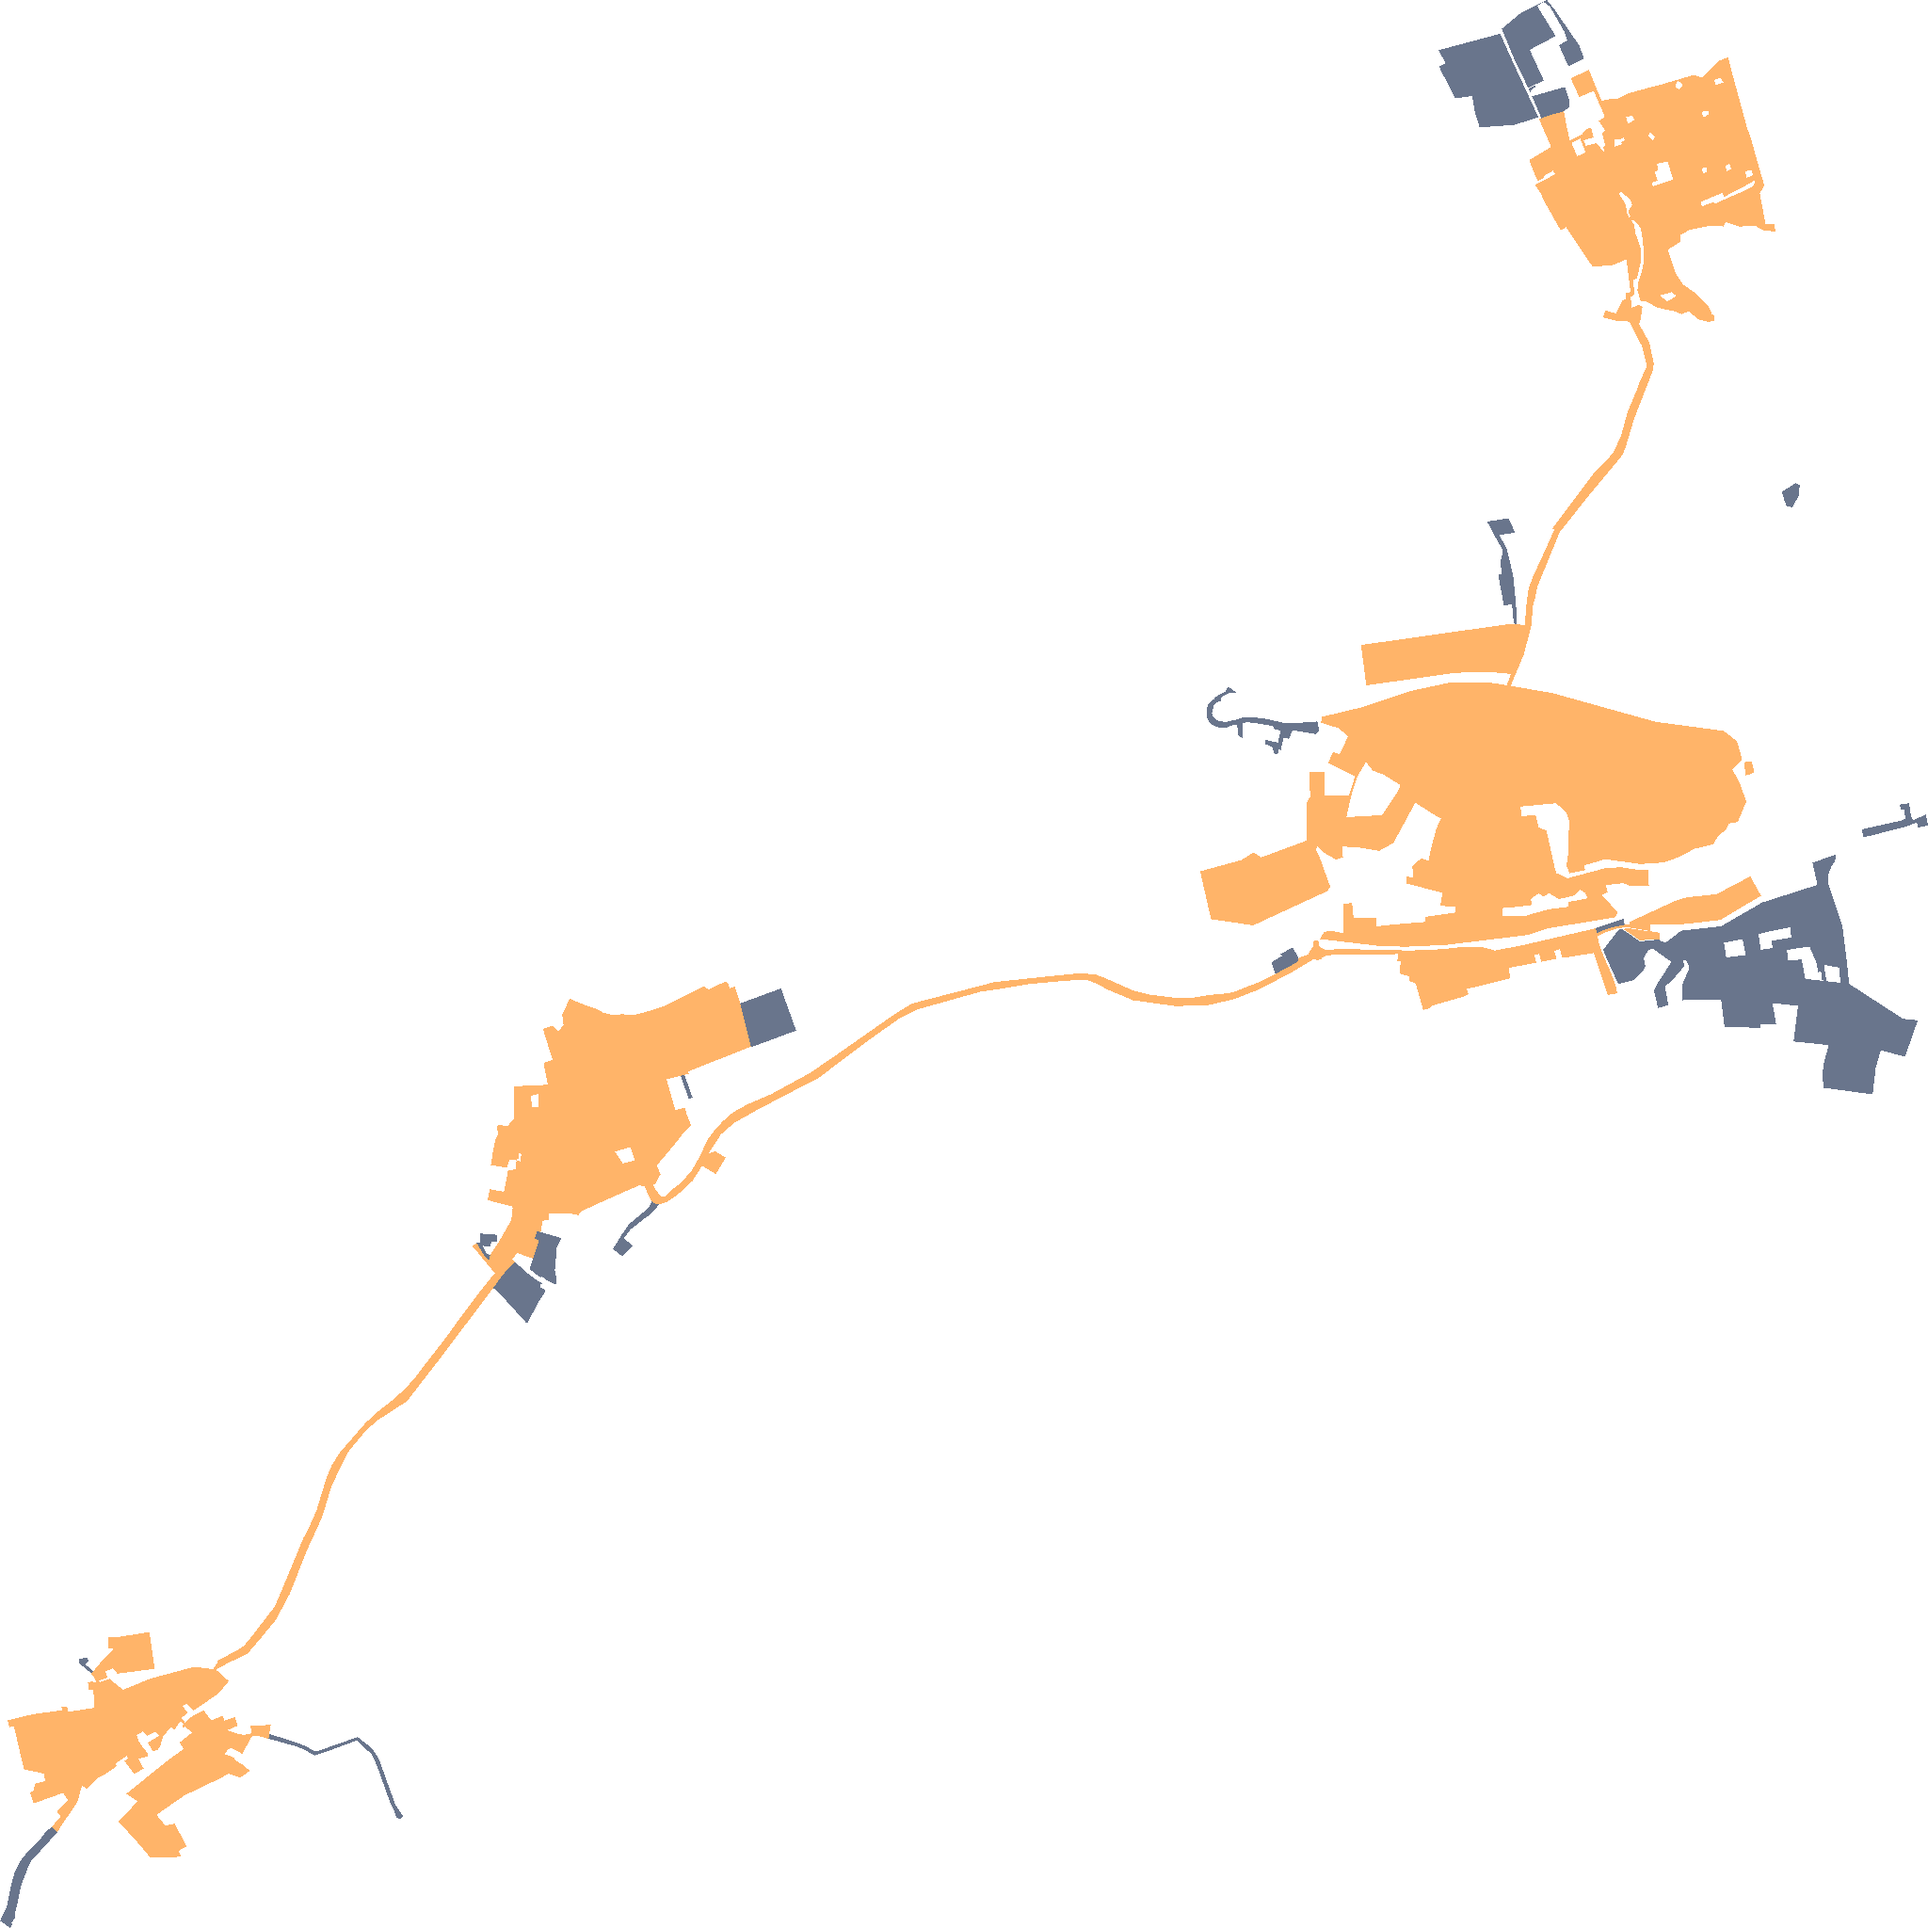
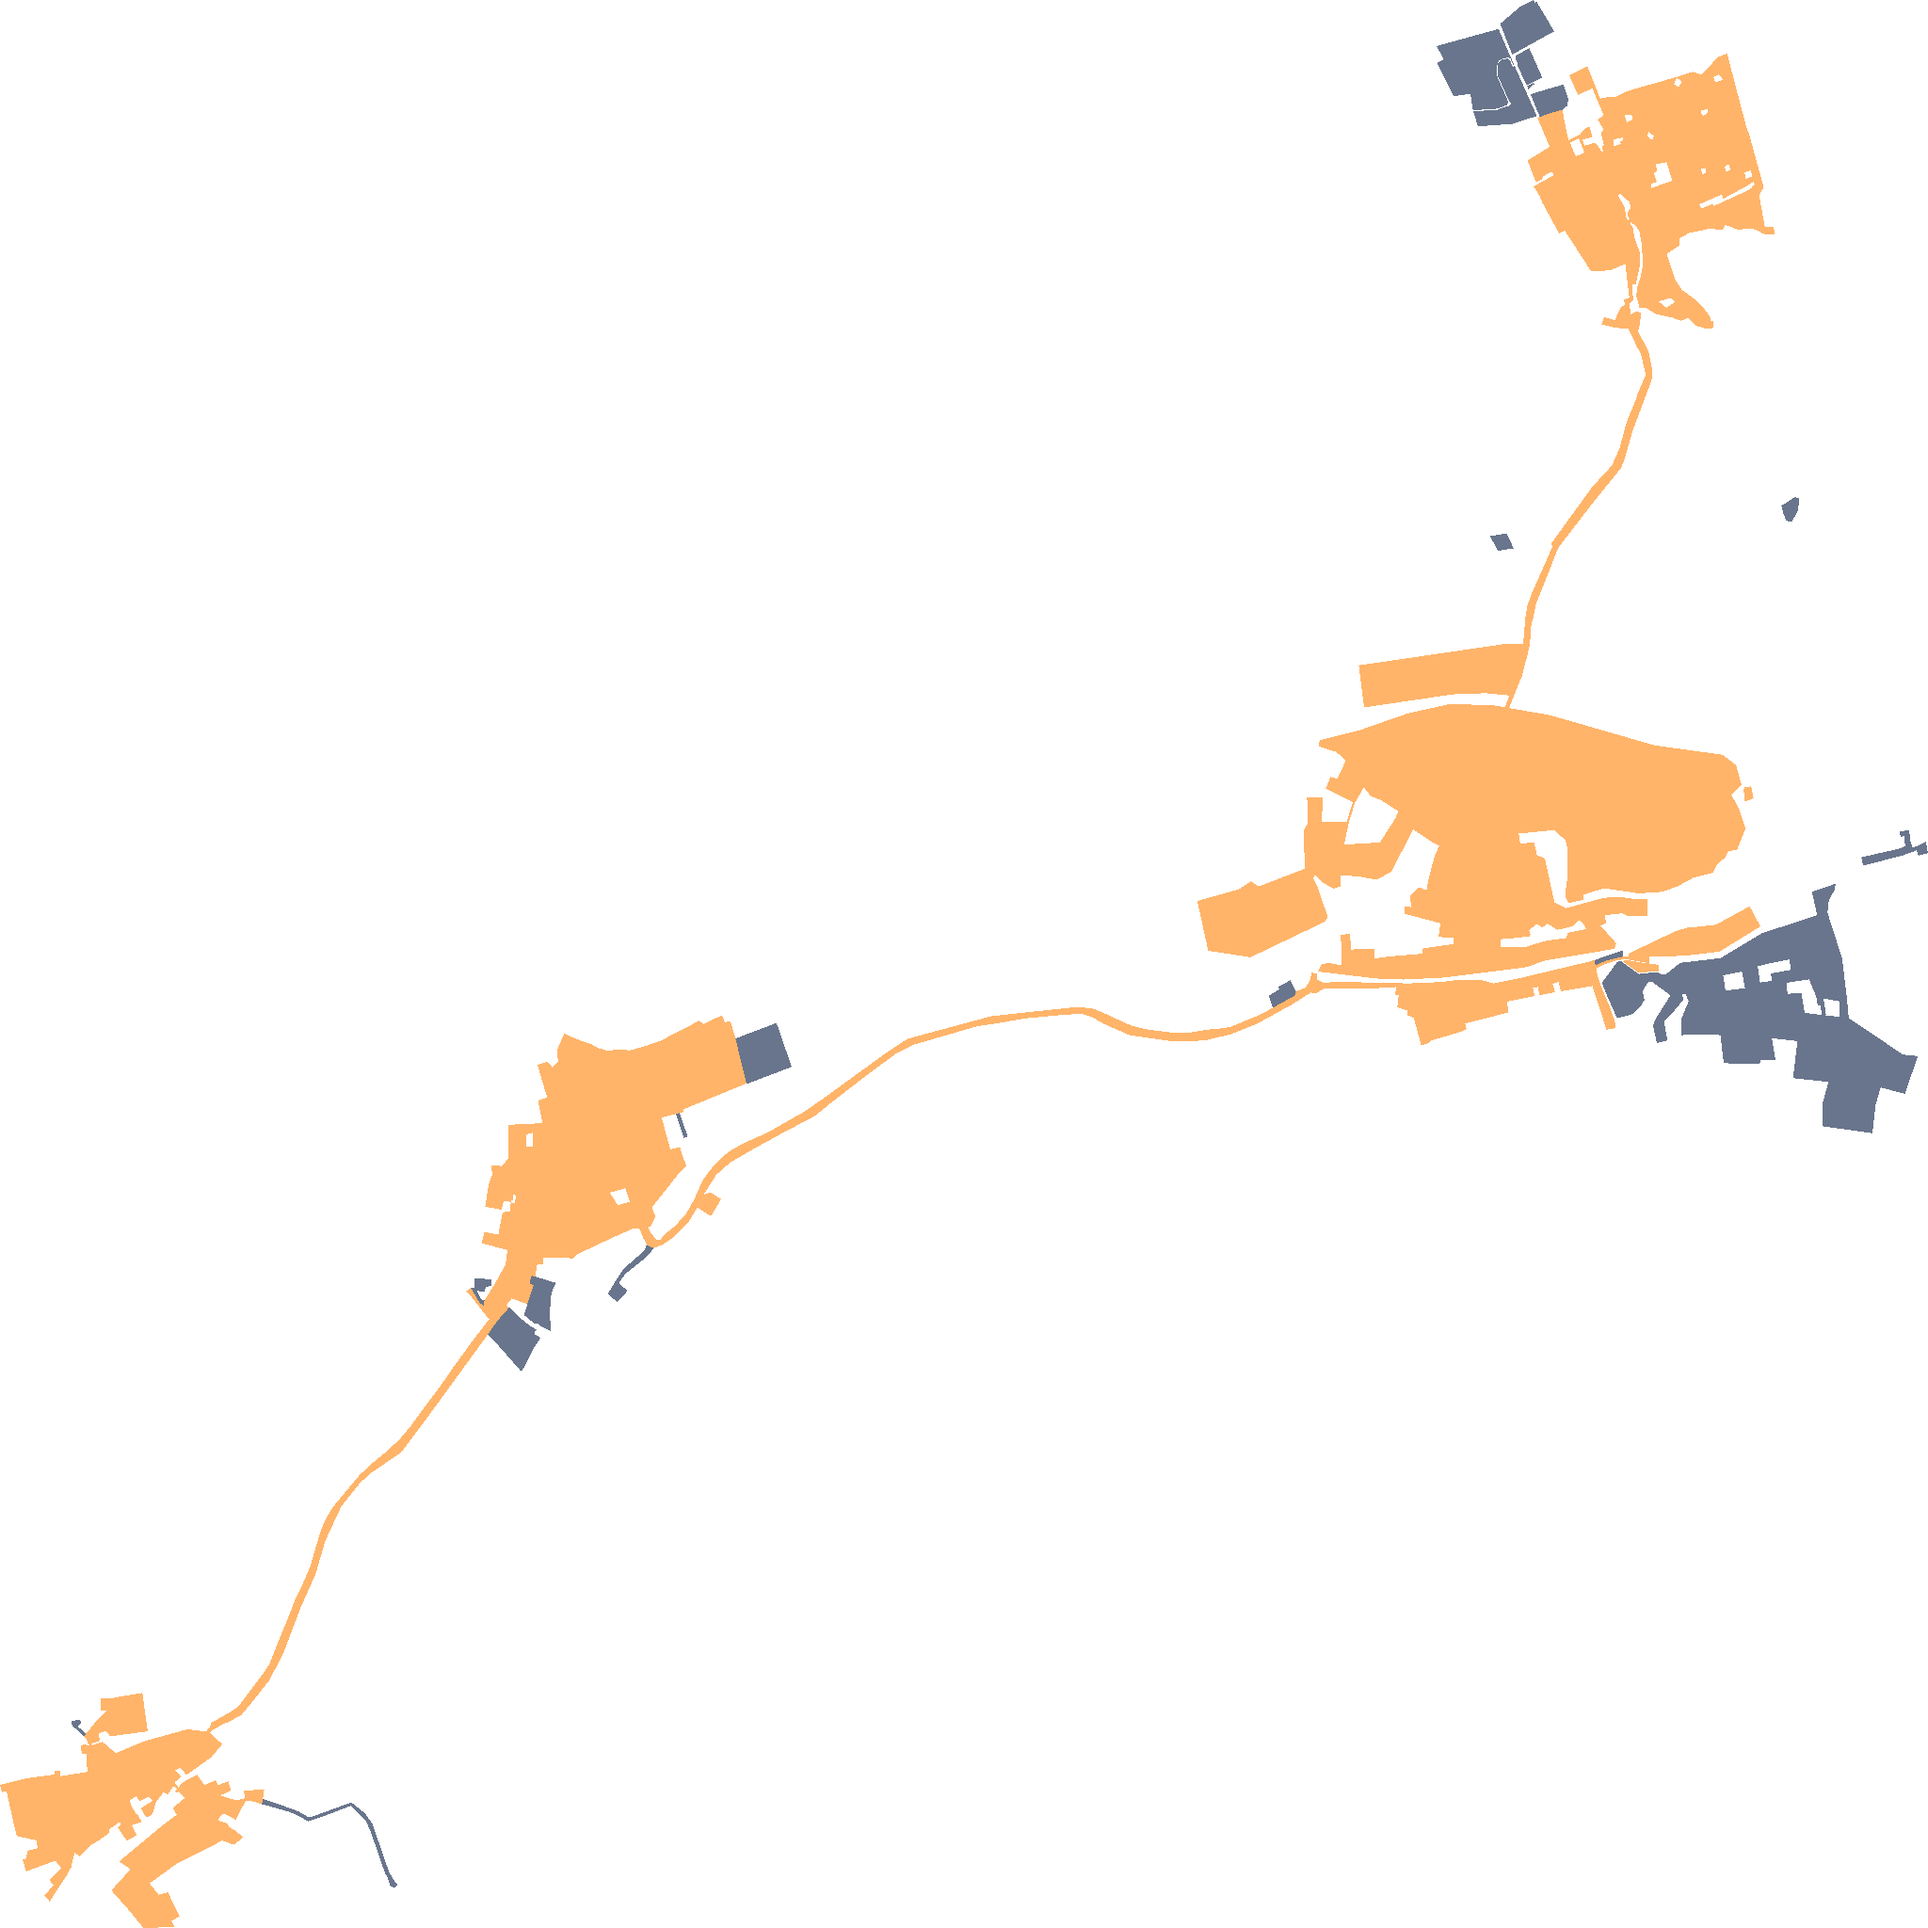
Karte p_70

diff --git a/p_70.html b/p_70.html
@@ -115,7 +115,7 @@
         <div><span style="display:inline-block;width:20px; height:10px; background:#FFC17D; margin-right:5px;"></span>Ausbauphase 3: Gefördertes Ausbaugebiet </div>
     </div>
     <script>
-    const bounds = [[49.104626835, 8.977893403], [49.170600373, 9.079523684]];
+    const bounds = [[49.107030721, 8.978291306], [49.170397439, 9.079523684]];
     const map = L.map('map', {zoomControl: false});
       map.fitBounds(bounds, {padding: [100, 100]});
        const maptiler = L.tileLayer('https://api.maptiler.com/maps/basic/{z}/{x}/{y}.png?key=hP74ooTG3ciBab5RShCg',
